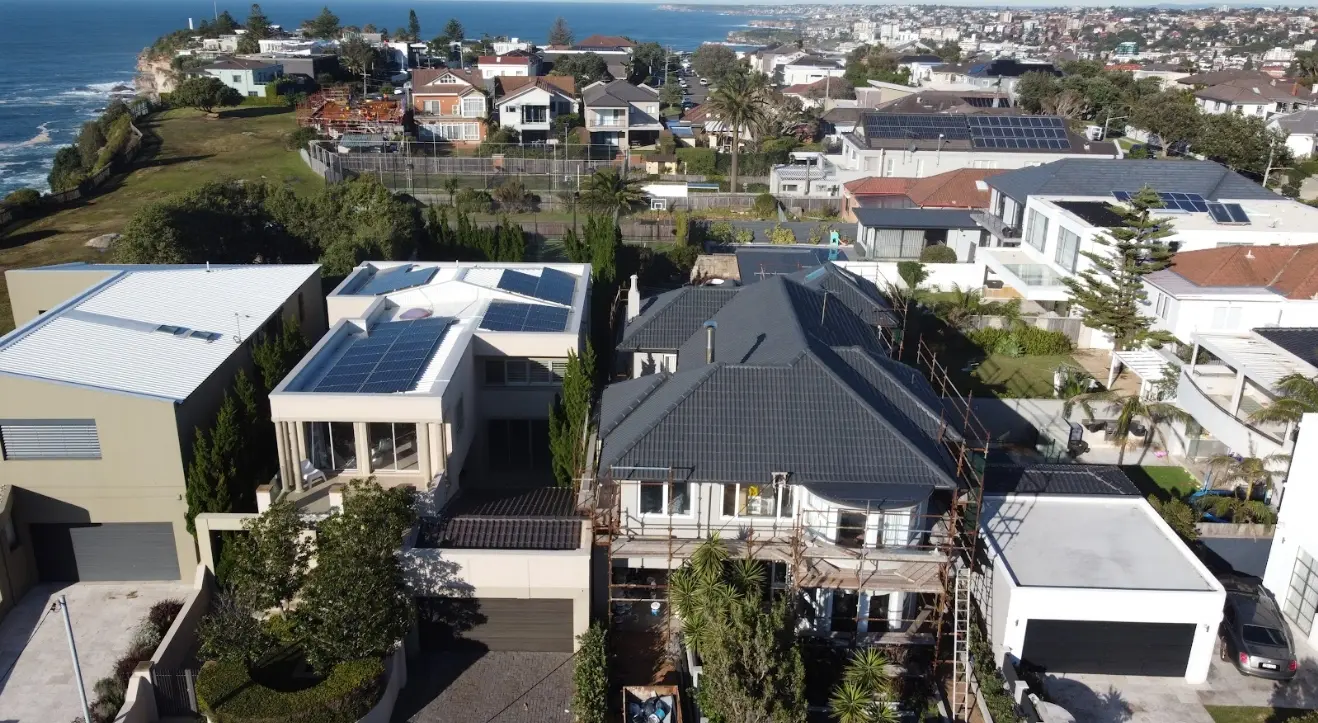
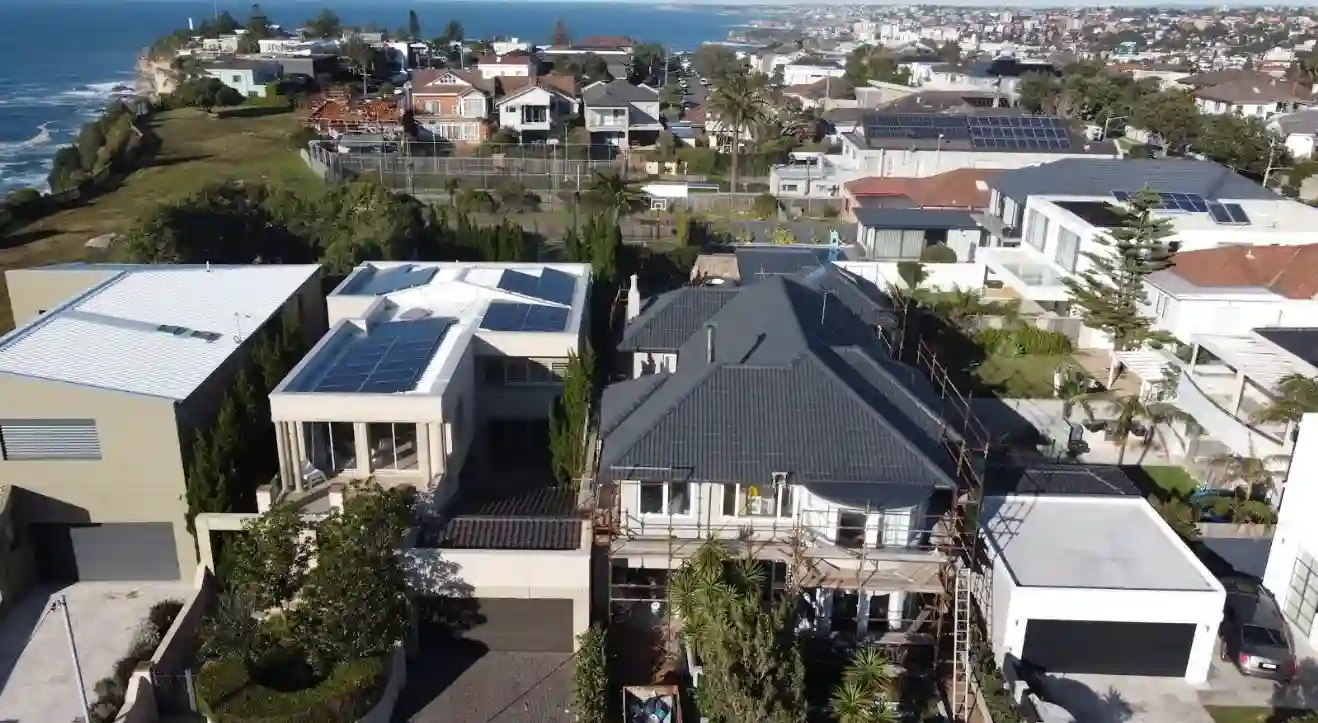
improving perfomance

diff --git a/src/app/components/Header.tsx b/src/app/components/Header.tsx
@@ -43,7 +43,7 @@ export default function Header() {
         {/* LOGO IZQUIERDA */}
         <Link href="/" className="flex items-center">
           <Image
-            src="/logo/logo1.png"
+            src="/logo/logo1.webp"
             alt="Prisma Coatings Sydney - Professional Painting Services"
             width={130}
             height={130}